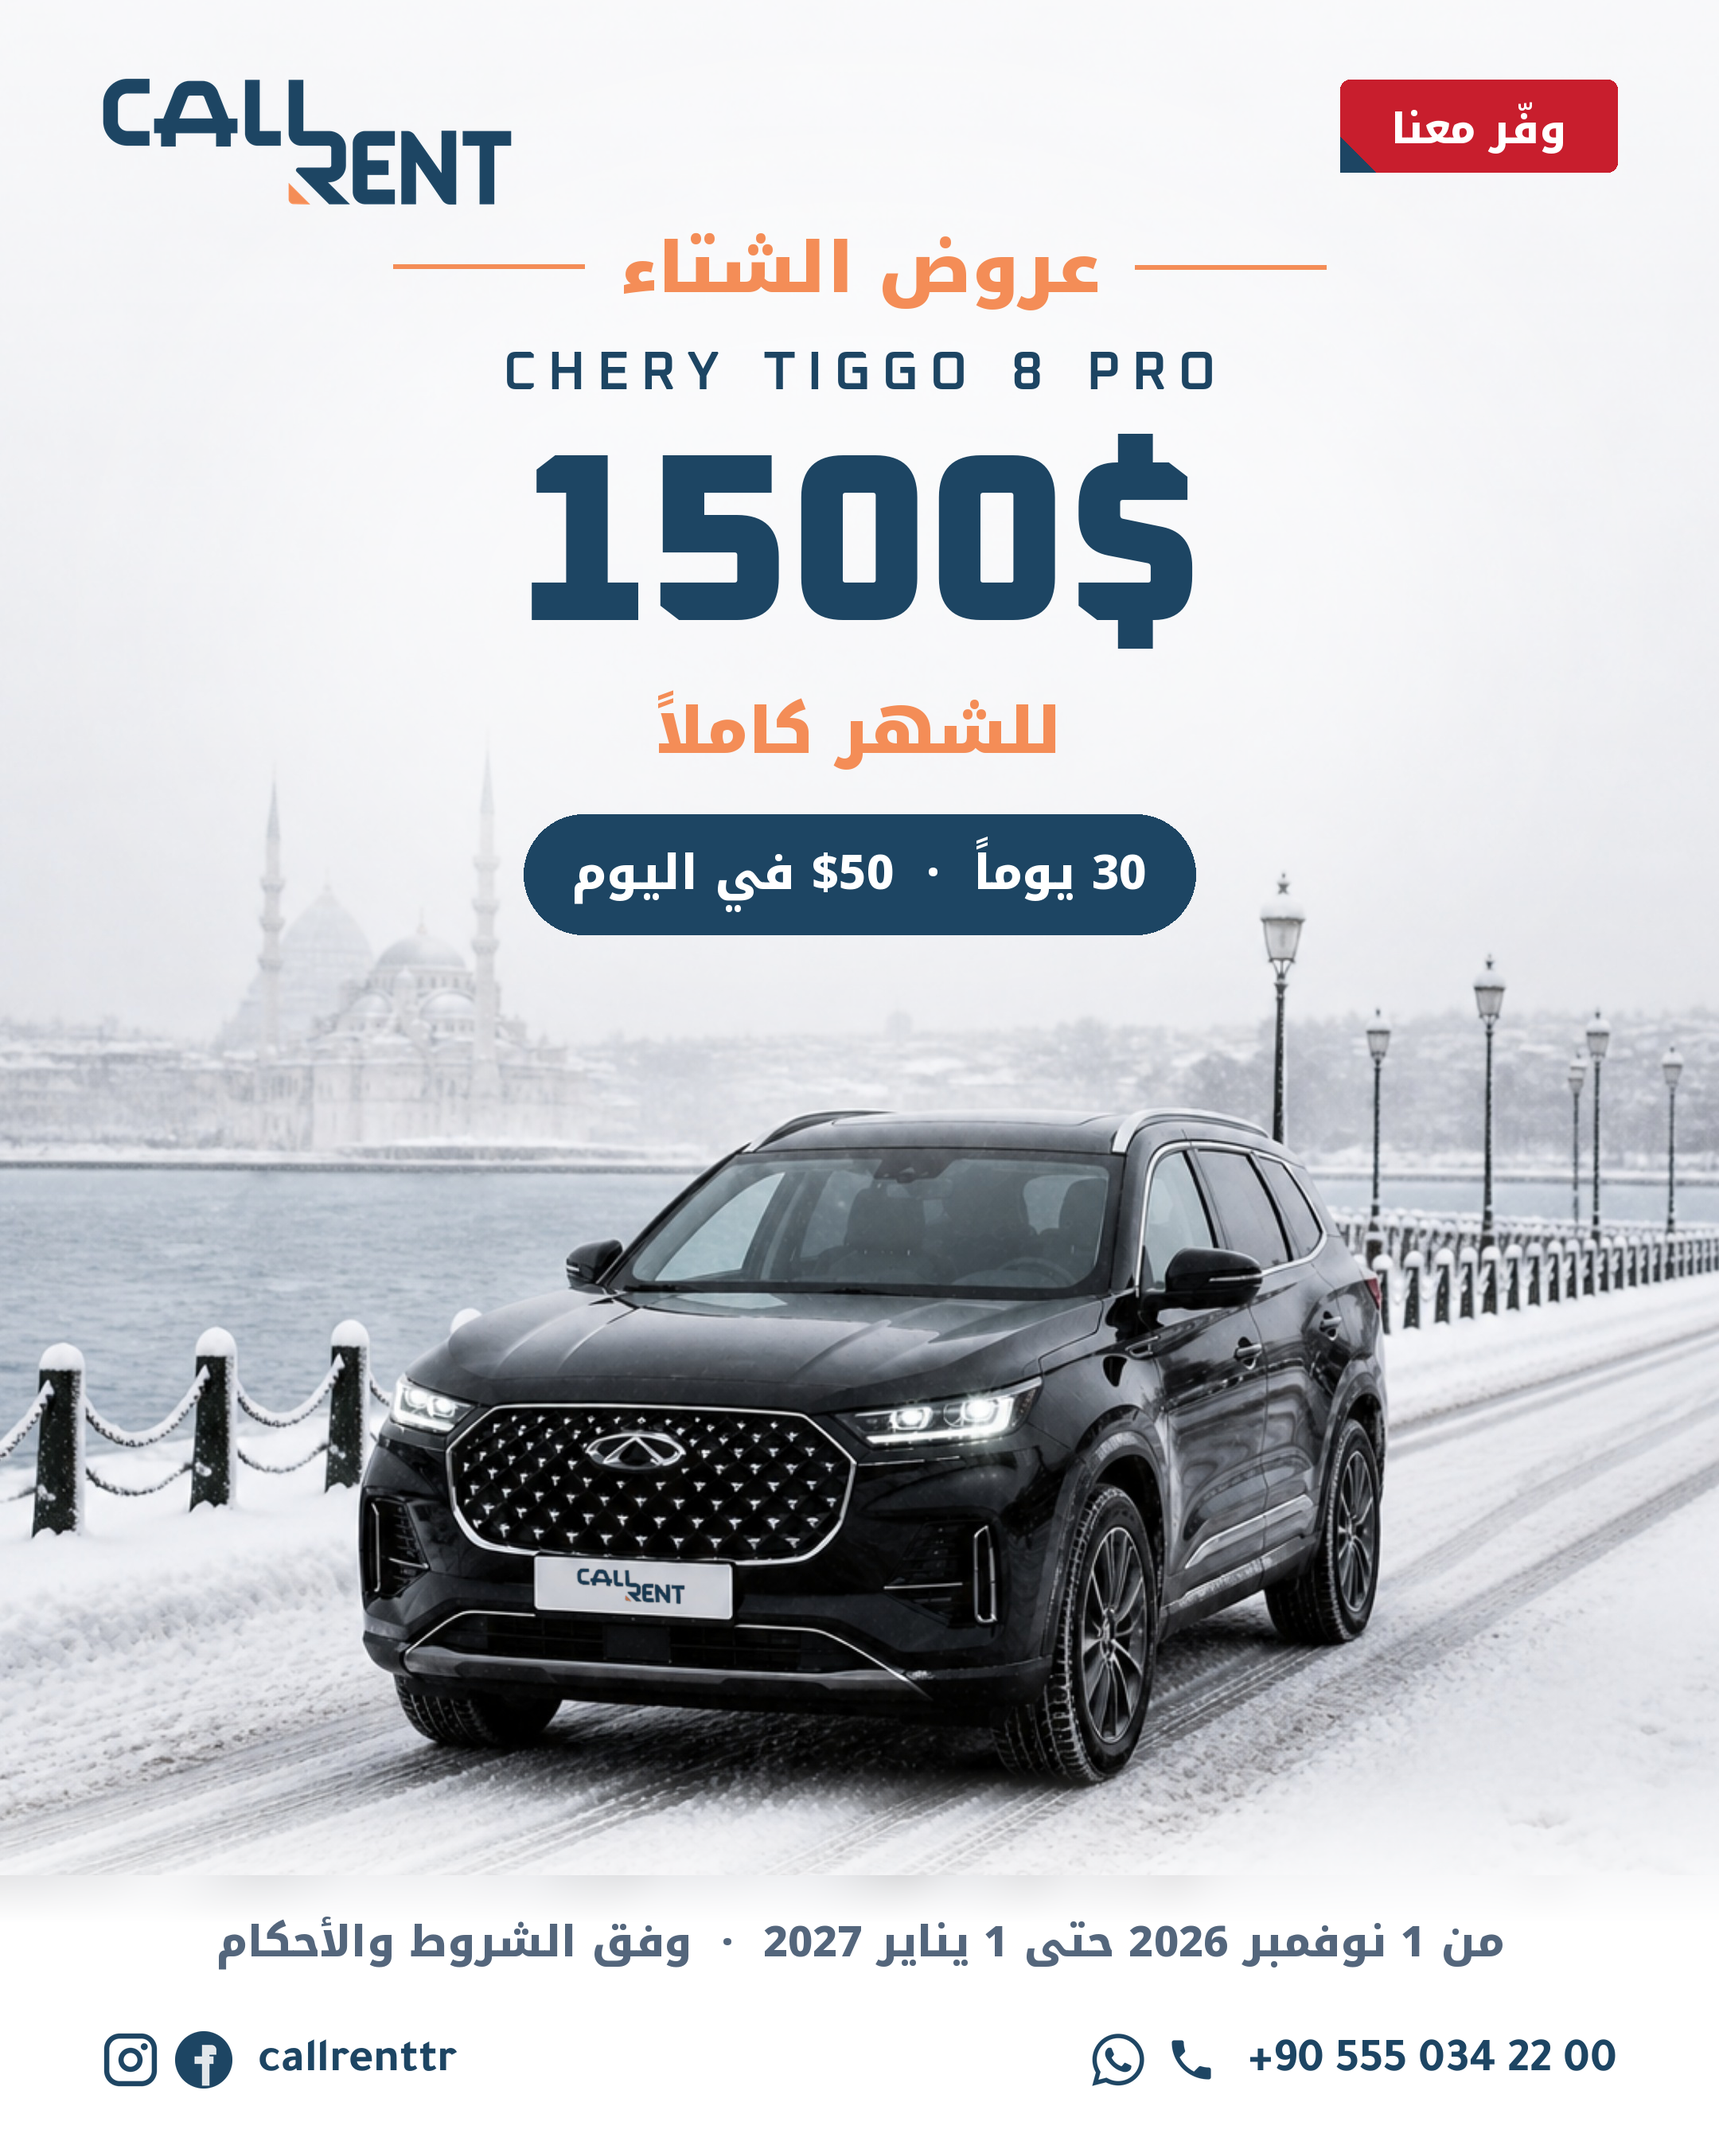
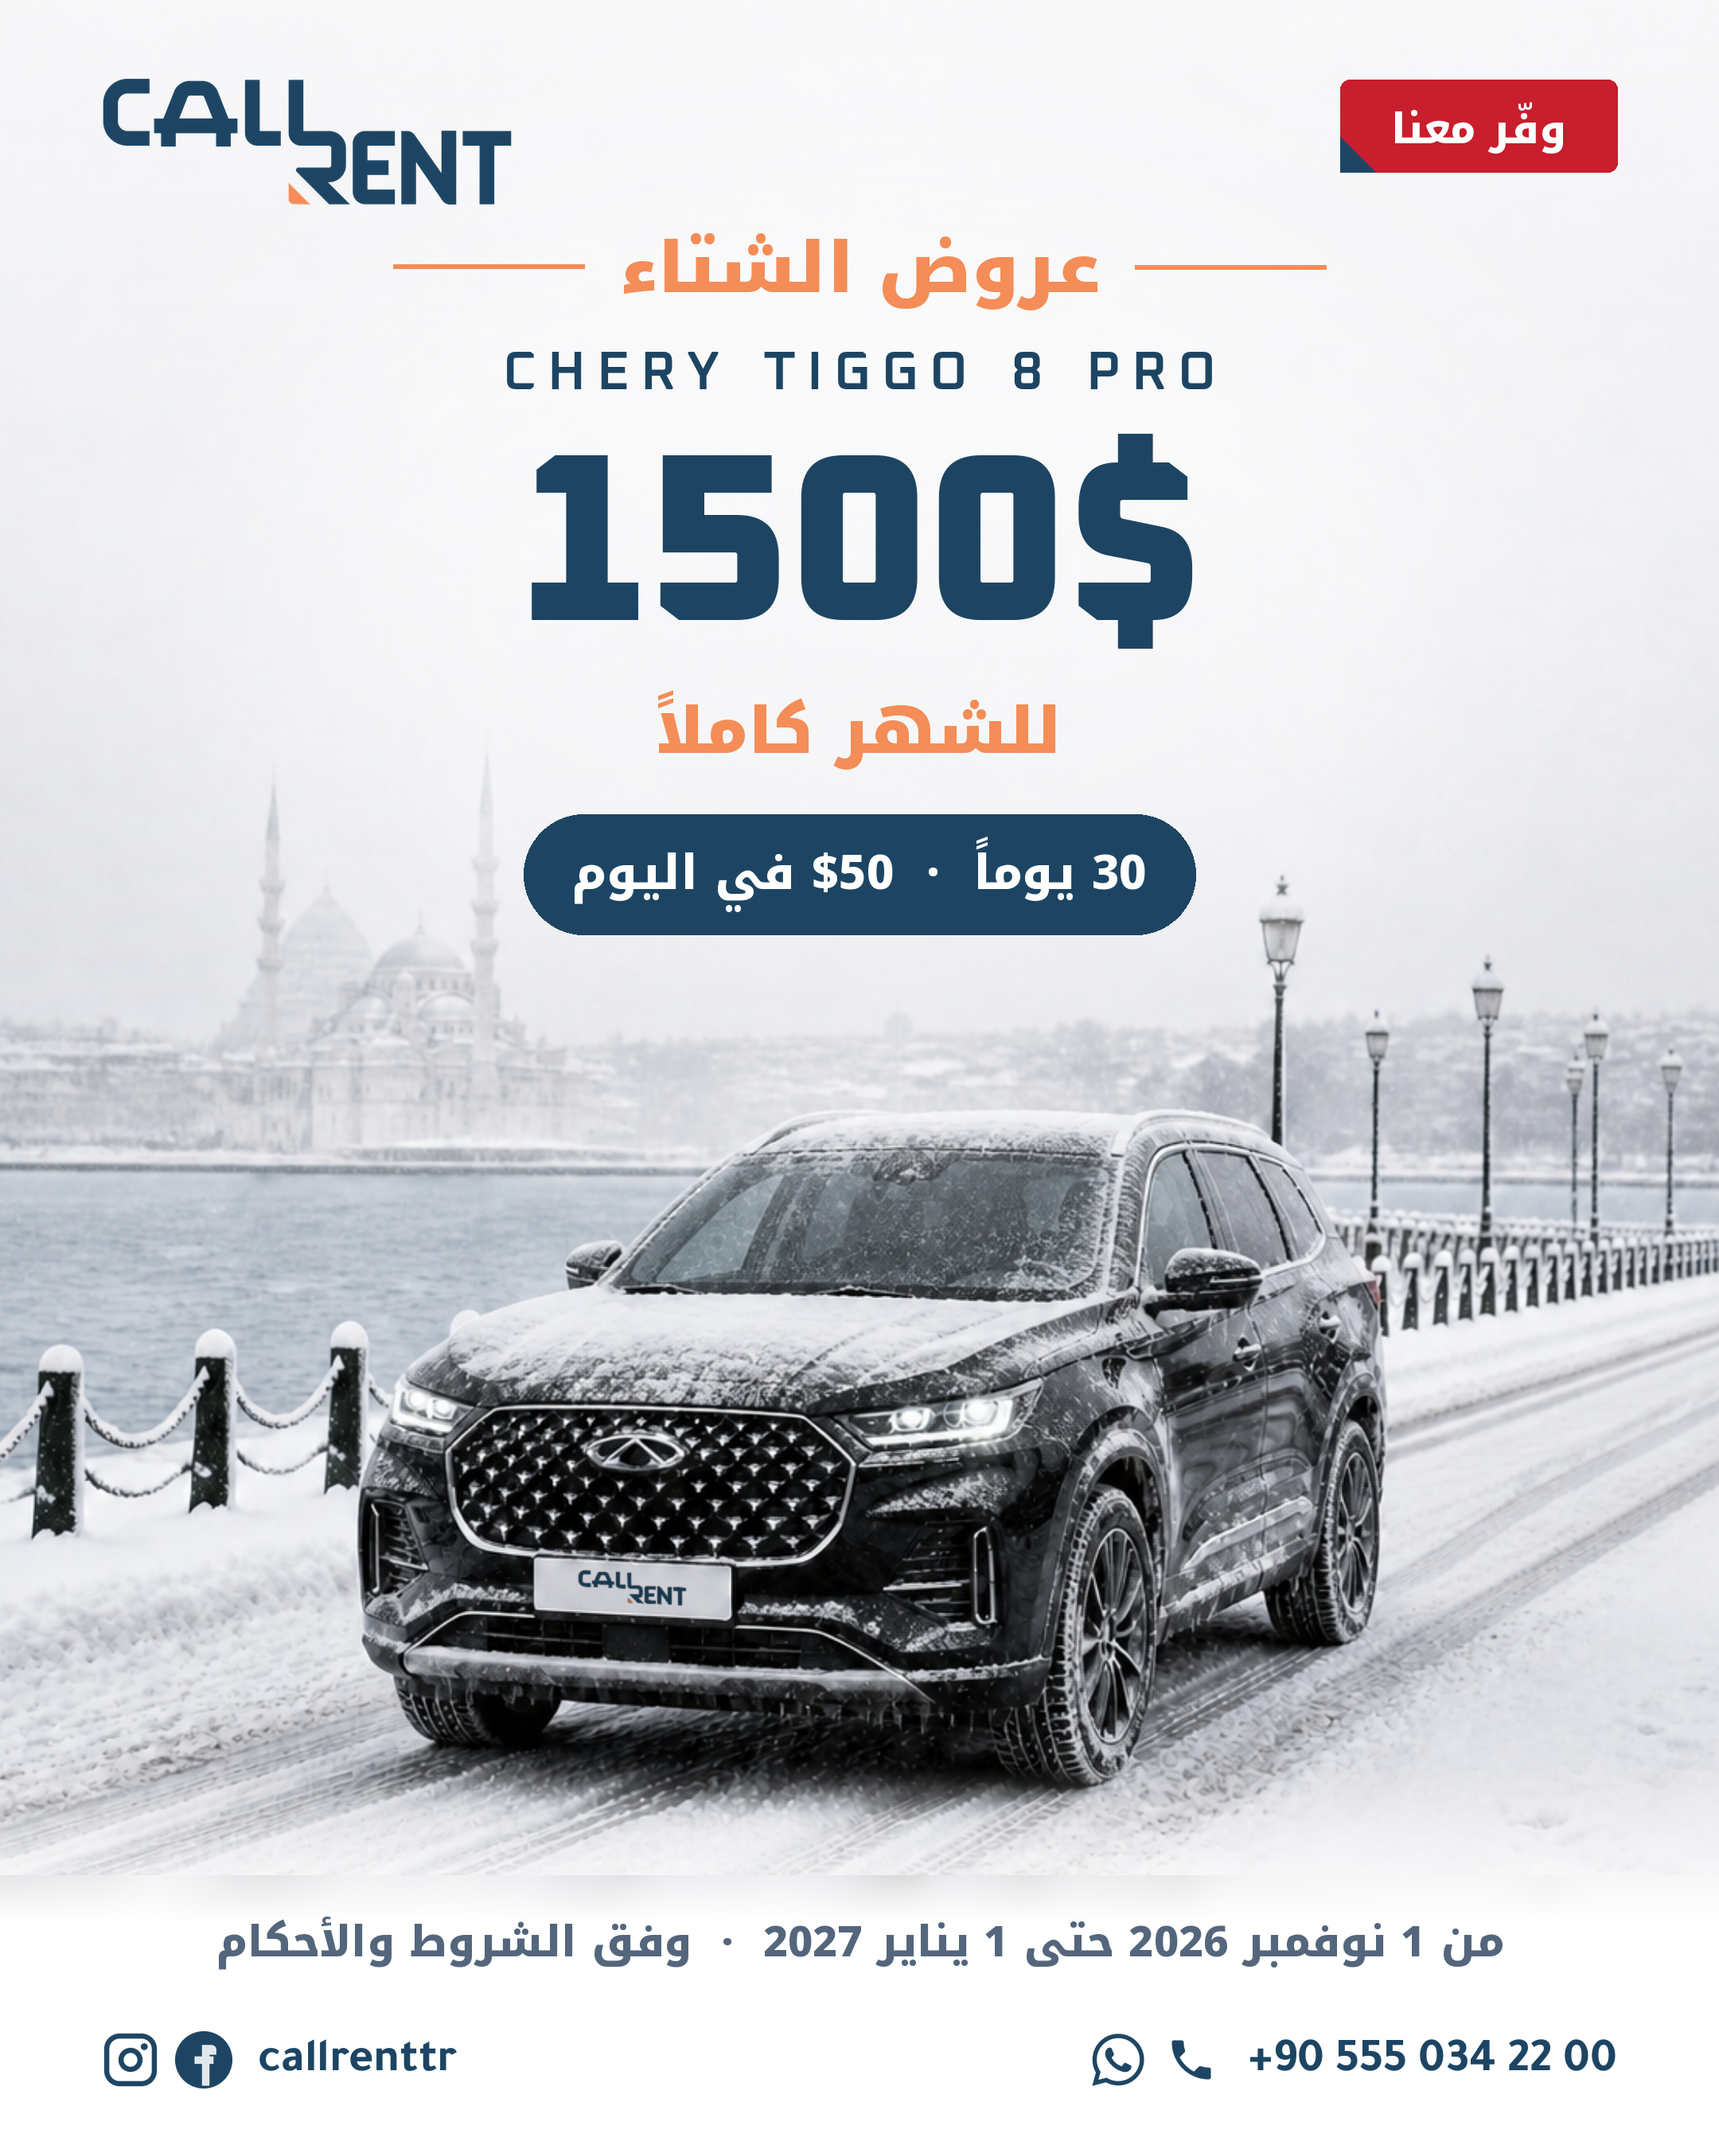
Tiggo winter offer: snow and frost on the car
Claude-Session: https://claude.ai/code/session_01JWxxZZBXcuDznNNTjM86b7

Changed region(s): [[0.1861, 0.4667, 1.0, 0.84], [0.0, 0.6222, 0.1551, 0.7156]]

diff --git a/marketing/posts/tiggo_winter.py b/marketing/posts/tiggo_winter.py
@@ -238,7 +238,7 @@ def model_c():
 
 if __name__ == '__main__':
     out = sys.argv[2]; os.makedirs(out, exist_ok=True)
-    # A on the snowy Istanbul waterfront (the approved layout with model B's setting)
-    a_ist = lambda: model_a('tiggo-winter-a-istanbul.jpg', 170, plate=(794, 2338), roof=385*1350//600, glow=0.55, glow_floor=40)
+    # A on the snowy Istanbul waterfront (the approved layout with model B's setting), snow and frost on the car
+    a_ist = lambda: model_a('tiggo-winter-a-istanbul-snowy.jpg', 170, plate=(794, 2338), roof=385*1350//600, glow=0.55, glow_floor=40)
     for k, fn in (('a', model_a), ('b', model_b), ('c', model_c), ('a-istanbul', a_ist)):
         cv = fn(); p = os.path.join(out, f'tiggo-winter-{k}.png'); cv.convert('RGB').save(p, optimize=True); print(p, cv.size)
